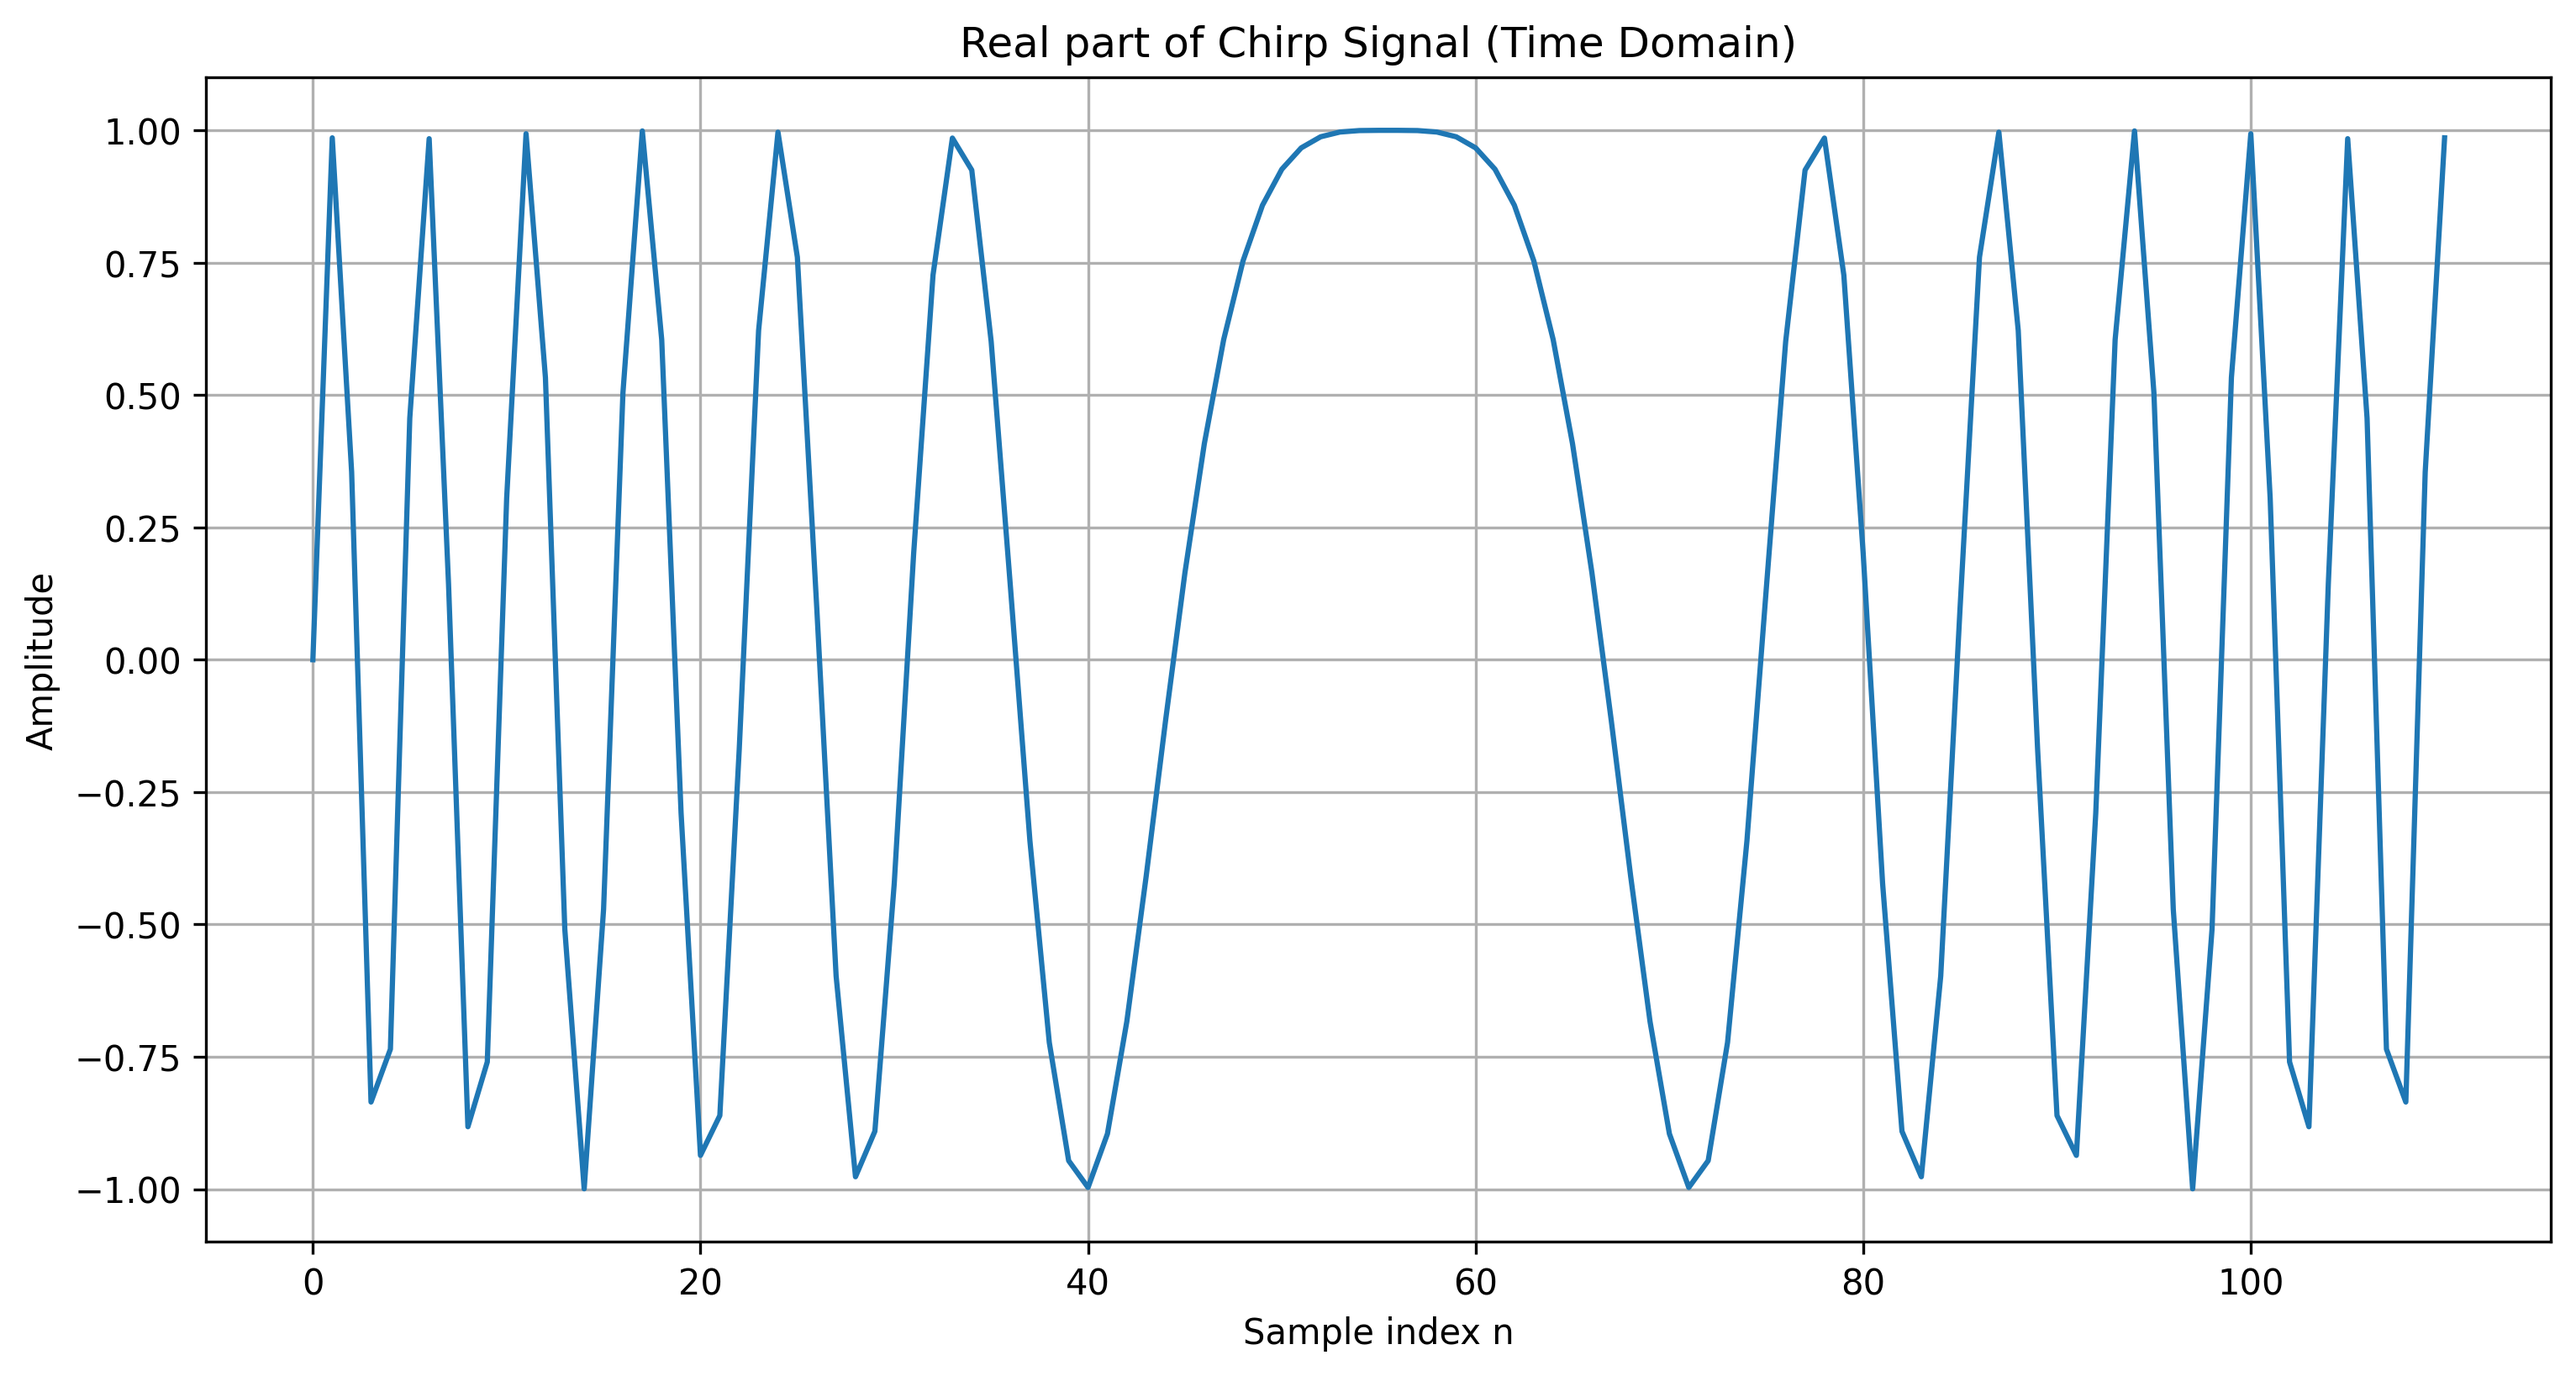
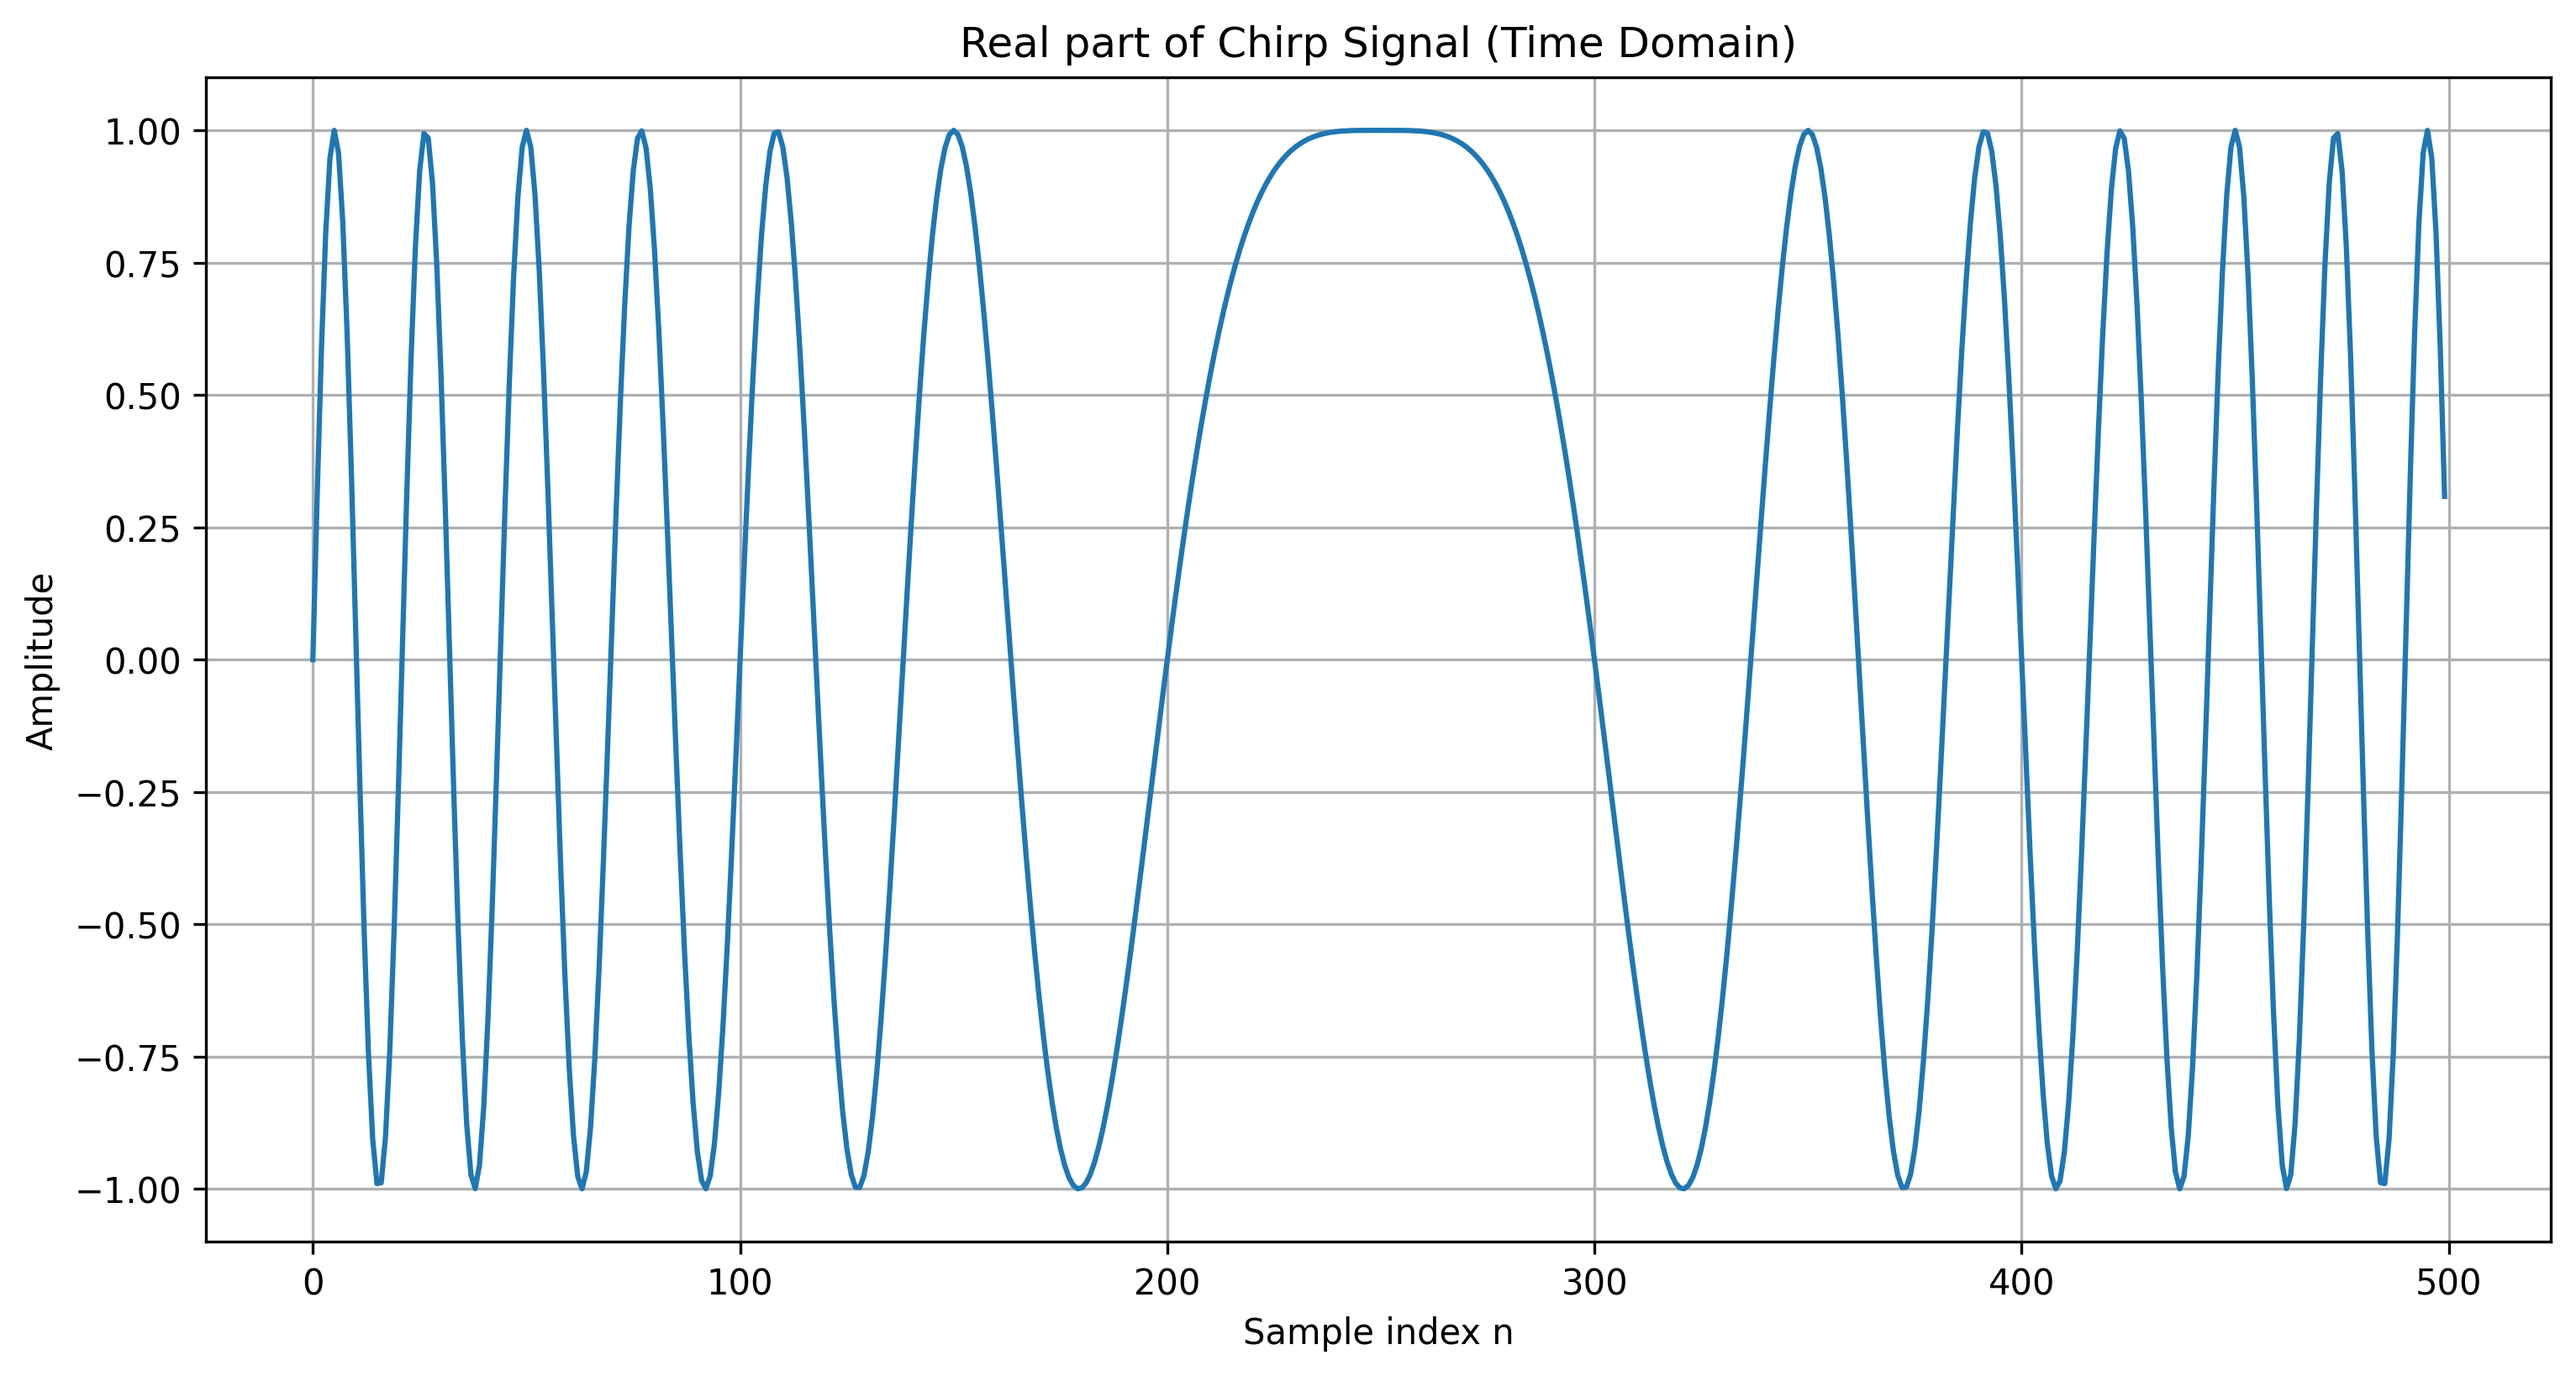
Fix swept bandwidth parameter in Q2a.py; update radar plot images for consistency.

diff --git a/Q2a.py b/Q2a.py
@@ -8,7 +8,7 @@ if not os.path.exists('radar_plots'):
 
 # Radar parameters from the table
 T = 25e-6  # Pulse length in seconds (25 μs)
-W = 9e6    # Swept bandwidth in Hz (9 MHz)
+W = 2e6    # Swept bandwidth in Hz (9 MHz)
 fs = 20e6  # Sampling frequency in Hz (20 MHz)
 TW = 50    # Time-bandwidth product (dimensionless)
 p_ratio = 10  # Oversampling ratio (dimensionless)
